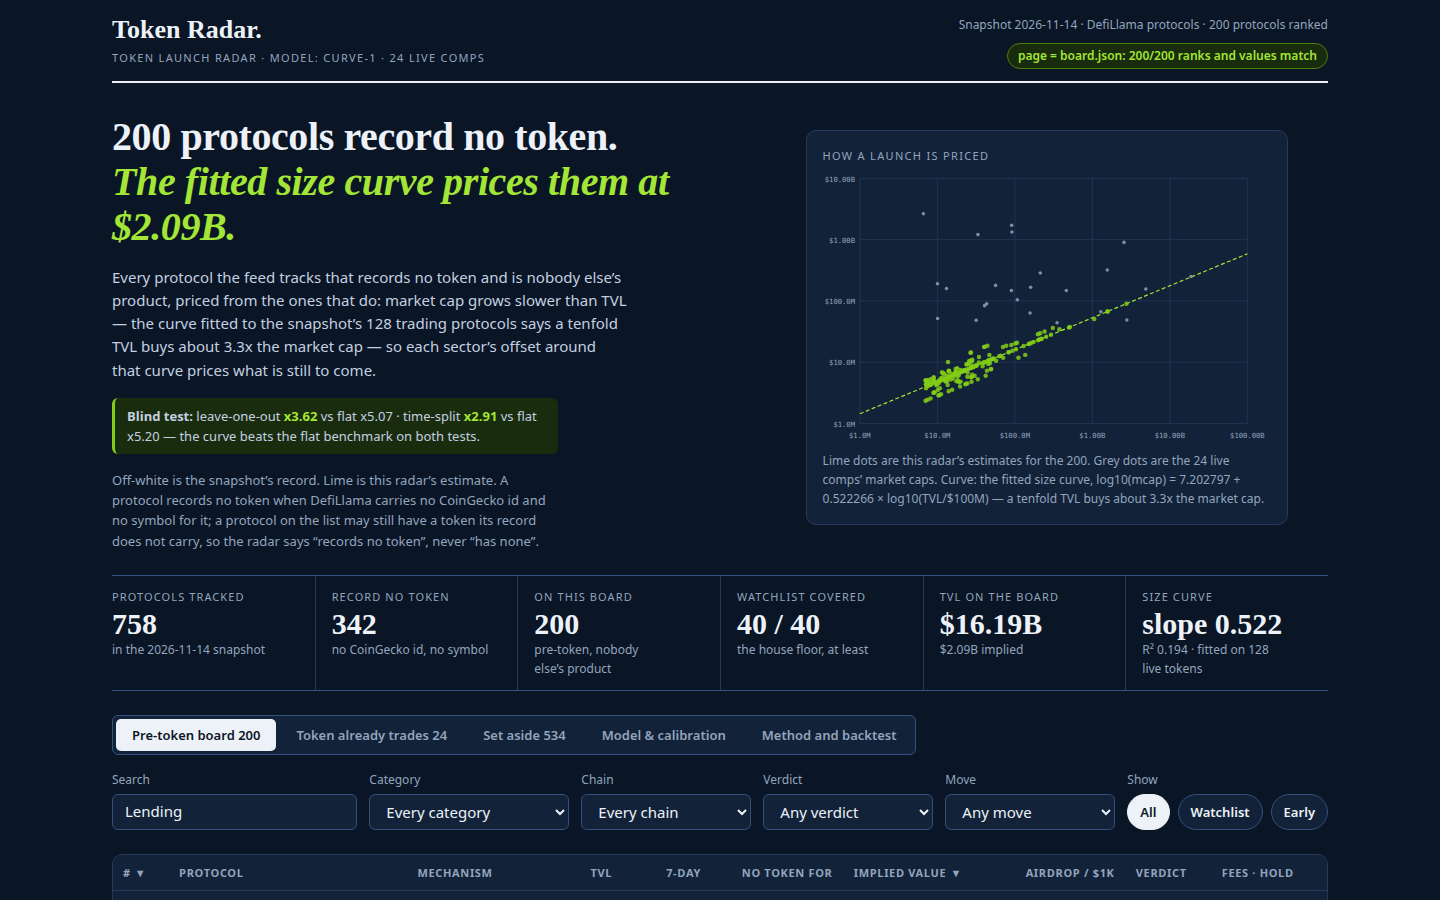
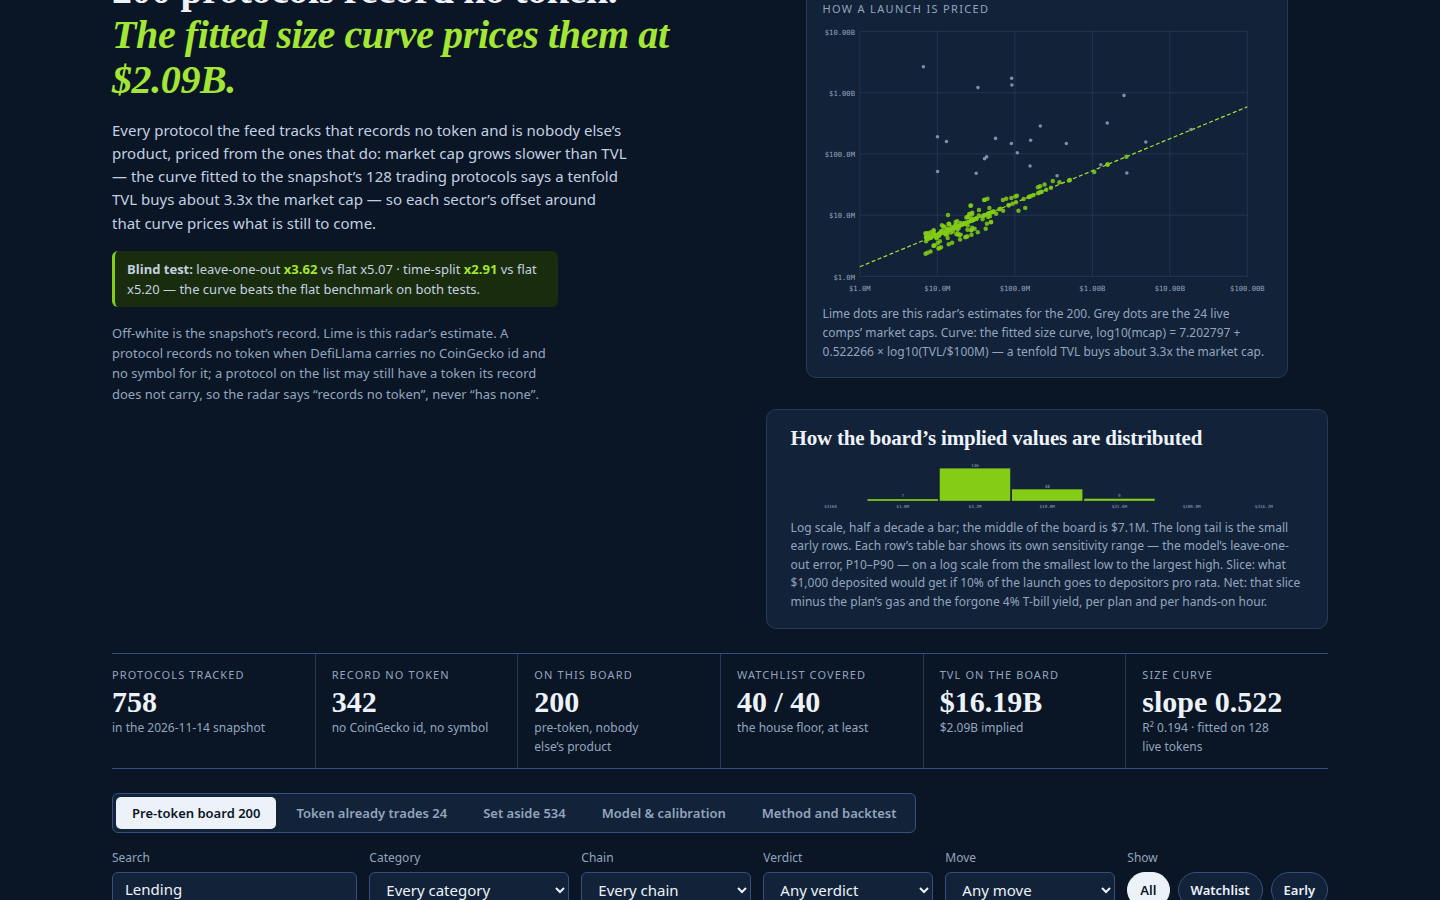
layout: EARLY tags next to project titles; histogram under hero scatter

diff --git a/dashboard/app.js b/dashboard/app.js
@@ -268,7 +268,7 @@
         validLine,
         el('p', { class: 'note', text: 'Off-white is the snapshot\u2019s record. Lime is this radar\u2019s estimate. A protocol records no token when DefiLlama carries no CoinGecko id and no symbol for it; a protocol on the list may still have a token its record does not carry, so the radar says \u201crecords no token\u201d, never \u201chas none\u201d.' })
       ),
-      scatter()
+      el('div', { class: 'hero-side' }, scatter(), histogram())
     );
   }
 
@@ -422,9 +422,11 @@
       },
         el('td', { class: 'num' }, rankBadge(r.rank)),
         el('td', null, el('div', { class: 'name' },
-          el('b', { text: r.name }),
-          el('span', { class: 'sub', text: (r.category || 'Other') + ' on ' + (r.chains && r.chains.length ? r.chains.slice(0, 2).join(', ') : 'an unnamed chain') + ((r.chains || []).length > 2 ? ' +' + ((r.chains || []).length - 2) : '') }),
-          r.watchlist ? el('span', { class: 'tag-watch' }, 'WATCHLIST') : null
+          el('div', { class: 'name-top' },
+            el('b', { text: r.name }),
+            r.watchlist ? el('span', { class: 'tag-watch' }, 'WATCHLIST') : el('span', { class: 'tag-early' }, 'EARLY')
+          ),
+          el('span', { class: 'sub', text: (r.category || 'Other') + ' on ' + (r.chains && r.chains.length ? r.chains.slice(0, 2).join(', ') : 'an unnamed chain') + ((r.chains || []).length > 2 ? ' +' + ((r.chains || []).length - 2) : '') })
         )),
         el('td', { text: r.category || 'Other' }),
         el('td', { class: 'num', text: fmtUsd(r.tvl_usd) }),
@@ -939,7 +941,7 @@
       el('p', { class: 'crumb', text: 'RANK ' + row.rank + ' OF ' + DATA.board_size + ' \u00b7 ' + (row.category || 'Other').toUpperCase() + ' \u00b7 ' + chain0.toUpperCase() }),
       el('div', { class: 'detail-title-row' },
         el('h1', { class: 'detail-title', text: row.name }),
-        row.watchlist ? el('span', { class: 'tag-watch', text: 'WATCHLIST' }) : null
+        row.watchlist ? el('span', { class: 'tag-watch', text: 'WATCHLIST' }) : el('span', { class: 'tag-early', text: 'EARLY' })
       ),
       el('p', { class: 'detail-sub', text: 'DefiLlama records no token for ' + row.name + ' (no CoinGecko id, ticker or market cap) as of ' + DATA.as_of + '. A record is not proof: check its own channels before farming.' }),
       stats,
@@ -965,7 +967,6 @@
       shell.appendChild(tabBar());
       shell.appendChild(controls());
       shell.appendChild(boardTable());
-      shell.appendChild(histogram());
     } else if (state.tab === 'live') {
       shell.appendChild(tabBar());
       shell.appendChild(liveTable());

diff --git a/dashboard/app.css b/dashboard/app.css
@@ -78,6 +78,8 @@ a { color: var(--accent); }
 
 /* Hero: the claim left, the scatter right. */
 .hero { display: grid; grid-template-columns: minmax(0, 1.05fr) minmax(0, 0.95fr); gap: var(--step-6); padding: var(--step-6) 0 var(--step-5); align-items: start; }
+.hero-side { display: flex; flex-direction: column; gap: var(--step-4); min-width: 0; }
+.hero-side .hist { margin-top: 0; }
 .hero-copy p { margin-top: var(--step-4); max-width: 60ch; color: var(--ink-soft); }
 .hero-copy p.note { font-size: 13px; color: var(--muted); }
 /* The hero's validation line: one honest sentence of backtest, so the board screenshot carries it. */
@@ -157,6 +159,8 @@ tbody tr[data-selected="true"] { background: var(--lime-soft); }
 .rank-badge.top { background: var(--lime); color: #0a1526; }
 .rank-badge.top3 { background: #241d0c; color: var(--gold); }
 .tag-watch { display: inline-block; width: fit-content; padding: 1px 6px; border-radius: 3px; background: var(--lime-soft); color: var(--accent); border: 1px solid var(--lime-mid); font-size: 10px; font-weight: 700; letter-spacing: 0.08em; }
+.tag-early { display: inline-block; width: fit-content; padding: 1px 6px; border-radius: 3px; background: transparent; color: var(--muted); border: 1px solid var(--border); font-size: 10px; font-weight: 700; letter-spacing: 0.08em; }
+.name-top { display: flex; align-items: center; gap: var(--step-2); }
 .status { display: inline-flex; align-items: center; gap: 6px; color: var(--muted); font-size: 12px; white-space: nowrap; }
 .status::before { content: ""; width: 6px; height: 6px; border-radius: 50%; background: var(--lime); }
 .status.live::before { background: var(--gold); }
